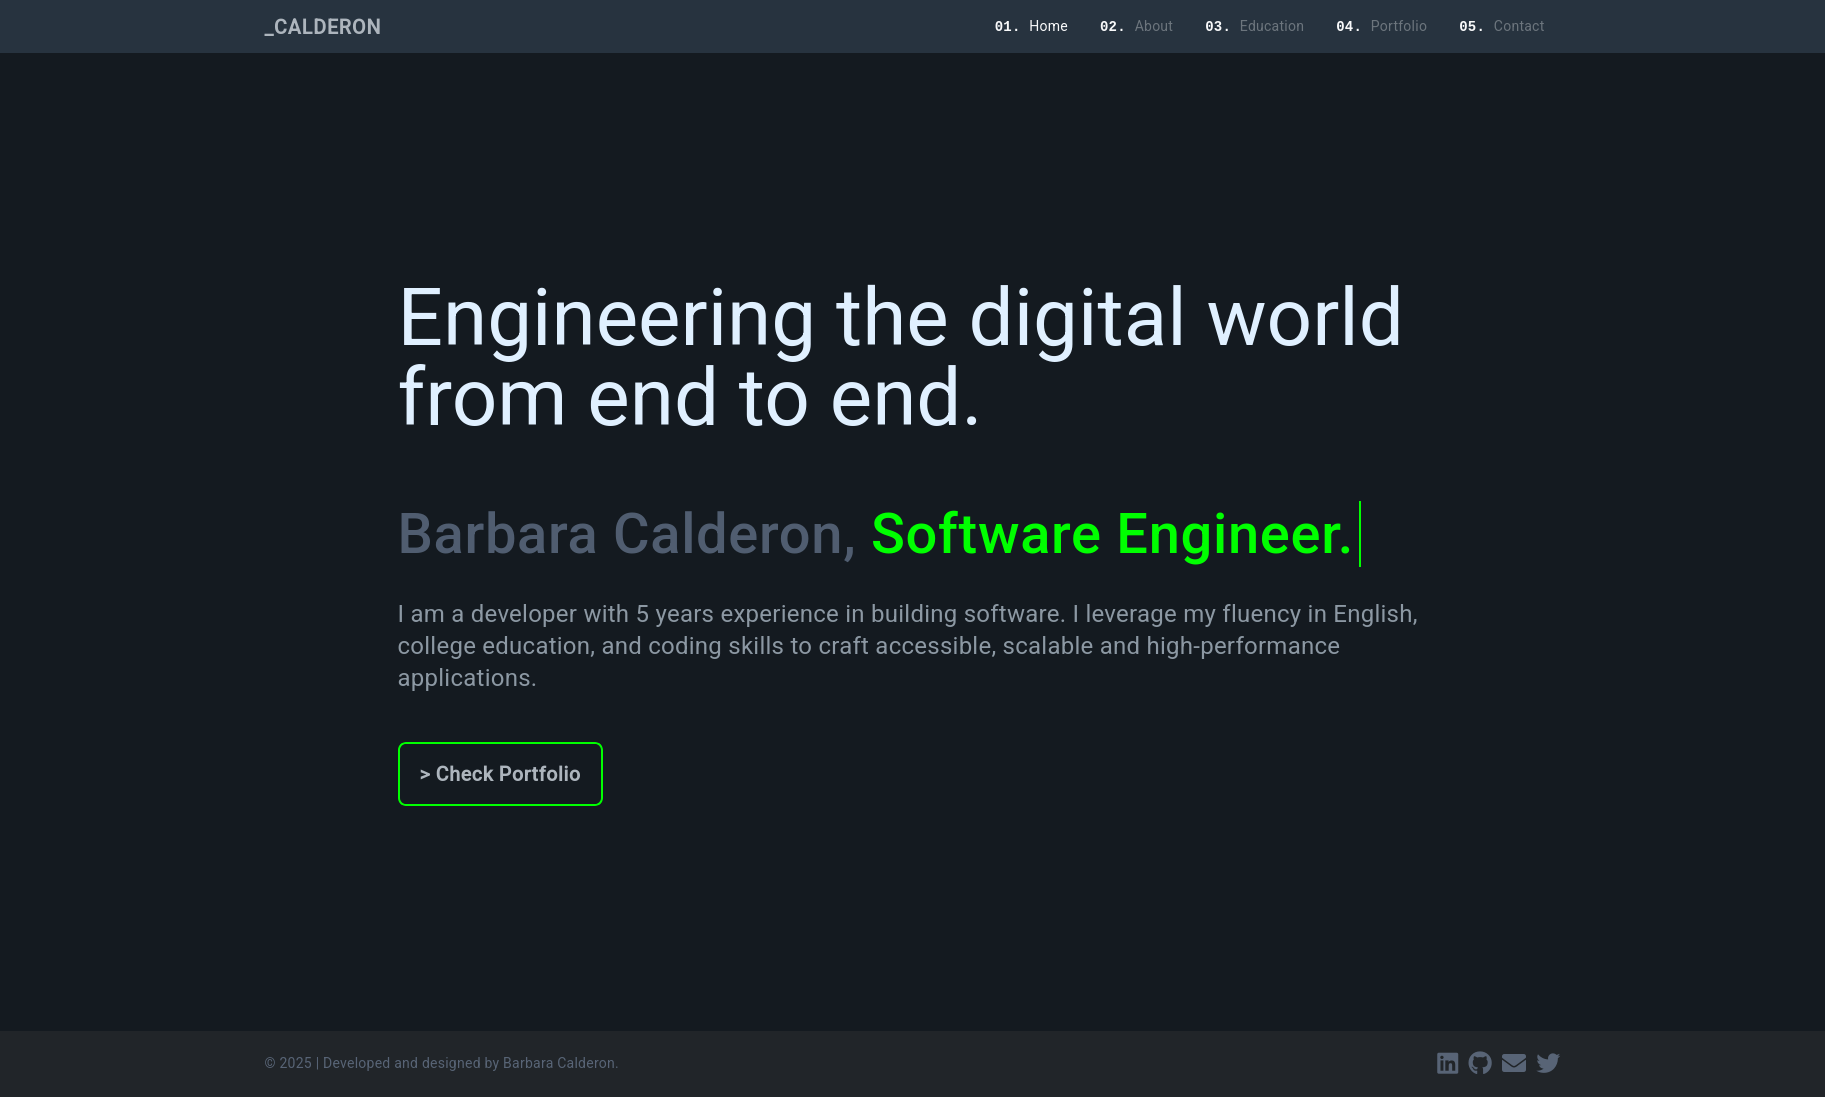
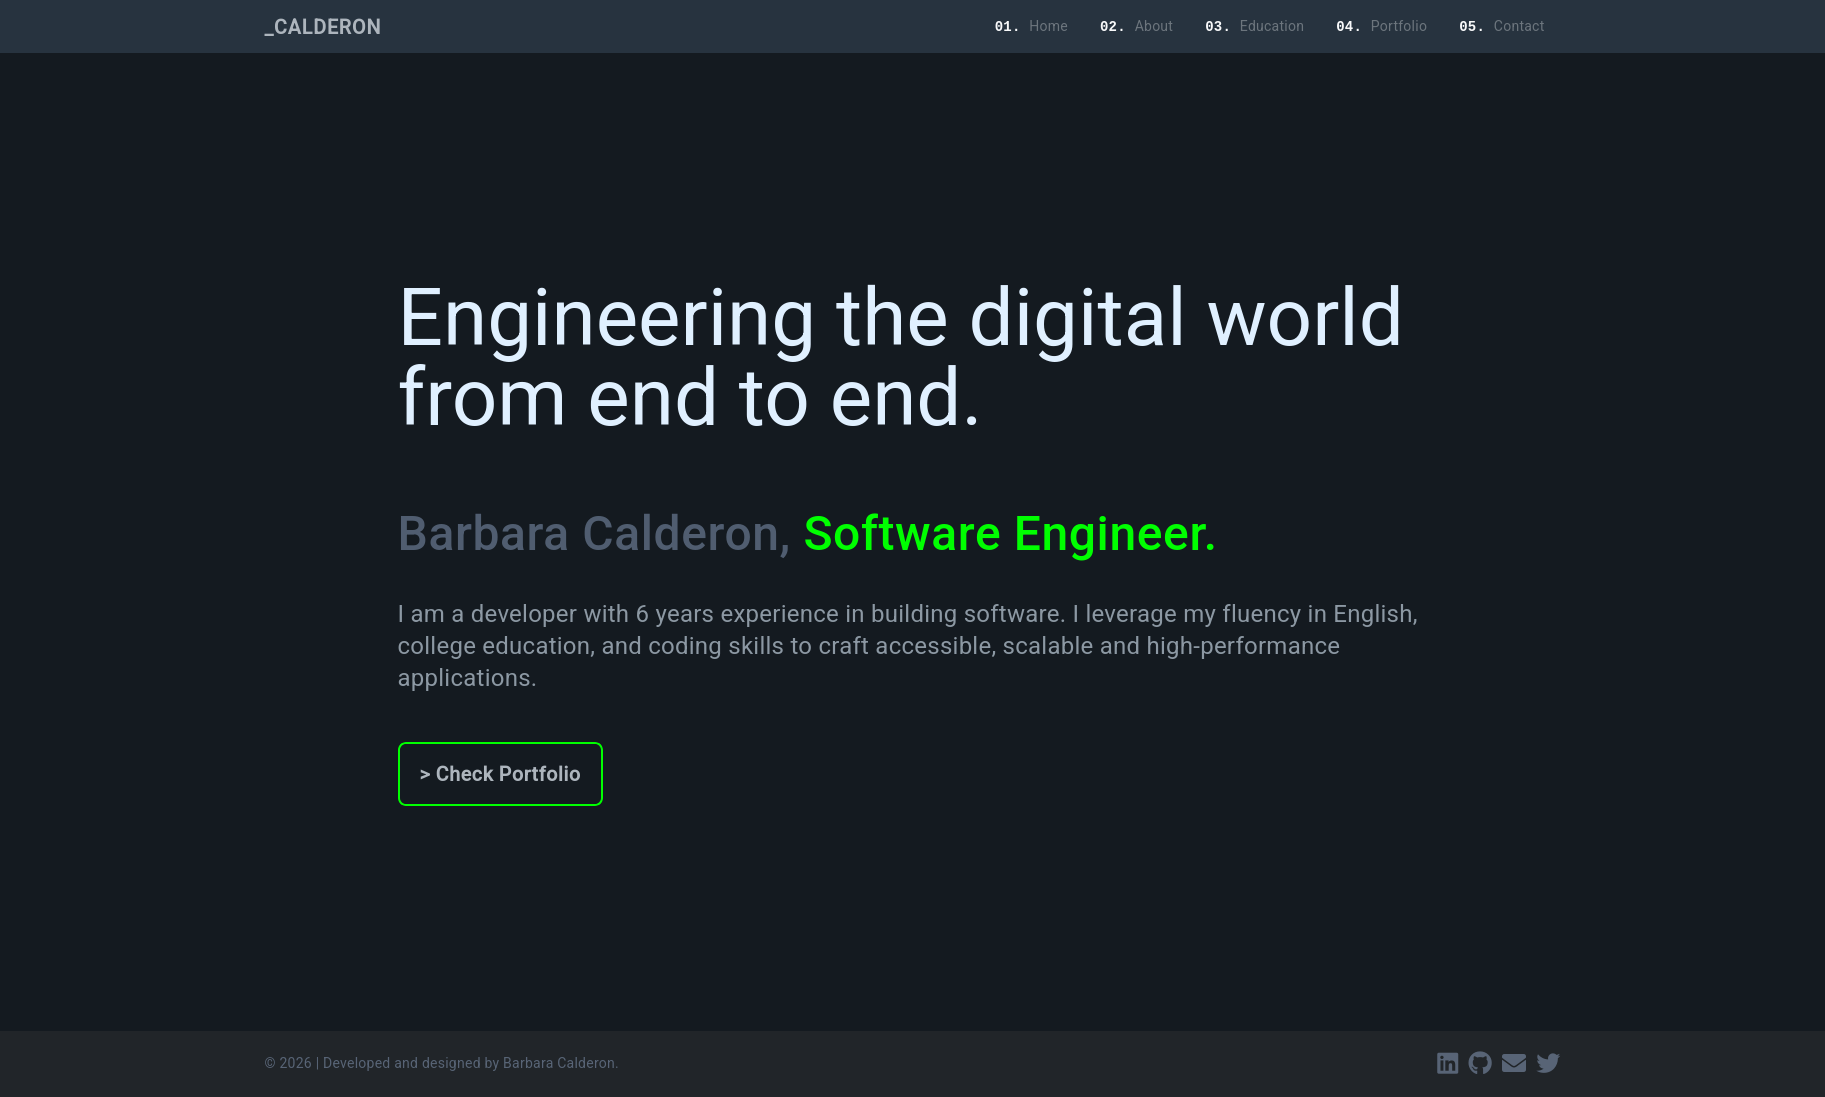
feat: add mba

Changed region(s): [[0.2186, 0.4649, 0.7496, 0.5269]]

diff --git a/src/app/accordion/accordion.component.html b/src/app/accordion/accordion.component.html
@@ -16,6 +16,10 @@
         <mat-panel-title>University</mat-panel-title>
       </mat-expansion-panel-header>
       <div class="accordion-text">
+        <p>2025 (current) - USP - <strong><span class="default-highlight">Software Engineering</span></strong> - Master's Degree in Business Administration</p>
+        <ul>
+          <li>Thesis | Ongoing...</li>
+        </ul>
         <p>2023 - UFSC - <strong><span class="default-highlight">Information Systems</span></strong> - Bachelor's Degree</p>
         <ul>
           <li>Final Project | The Brazillian Gazettes' Restful APIs</li>

diff --git a/src/app/home/home.component.css b/src/app/home/home.component.css
@@ -29,7 +29,7 @@
 }
 
 .home-author {
-    font-size: 3.5rem;
+    font-size: 3rem;
     color: #b0caf063;
     margin-bottom: 3rem;
 }

diff --git a/README.md b/README.md
@@ -86,6 +86,7 @@ This portfolio was designed and developed by myself, Barbara Calderon, using fro
 
 | Version | Date       | Description                                      |
 |---------|------------|--------------------------------------------------|
+| [2.1.1](https://github.com/barbaracalderon/angular-portfolio-app/releases/tag/v2.1.1)   | Jan 2026 | Update education. 
 | [2.1.0](https://github.com/barbaracalderon/angular-portfolio-app/releases/tag/v2.1.0)   | Dec 2025 | Upgrade Angular v19 to v21. 
 | [2.0.0](https://github.com/barbaracalderon/angular-portfolio-app/releases/tag/v2.0.0)   | Apr 2025   | `!breaking changes` Upgrade Angular v17 to v19. Replace "accordion" with "expansion". Replace "carousel" with "swiper". Remove ngx-bootstrap lib. Refactor breaking code. Update tests with Jasmine framework.|
 | [1.3.0](https://github.com/barbaracalderon/angular-portfolio-app/releases/tag/v1.3.0)   | Mar 2025   | Added "forecast-cli" project to portfolio.|
